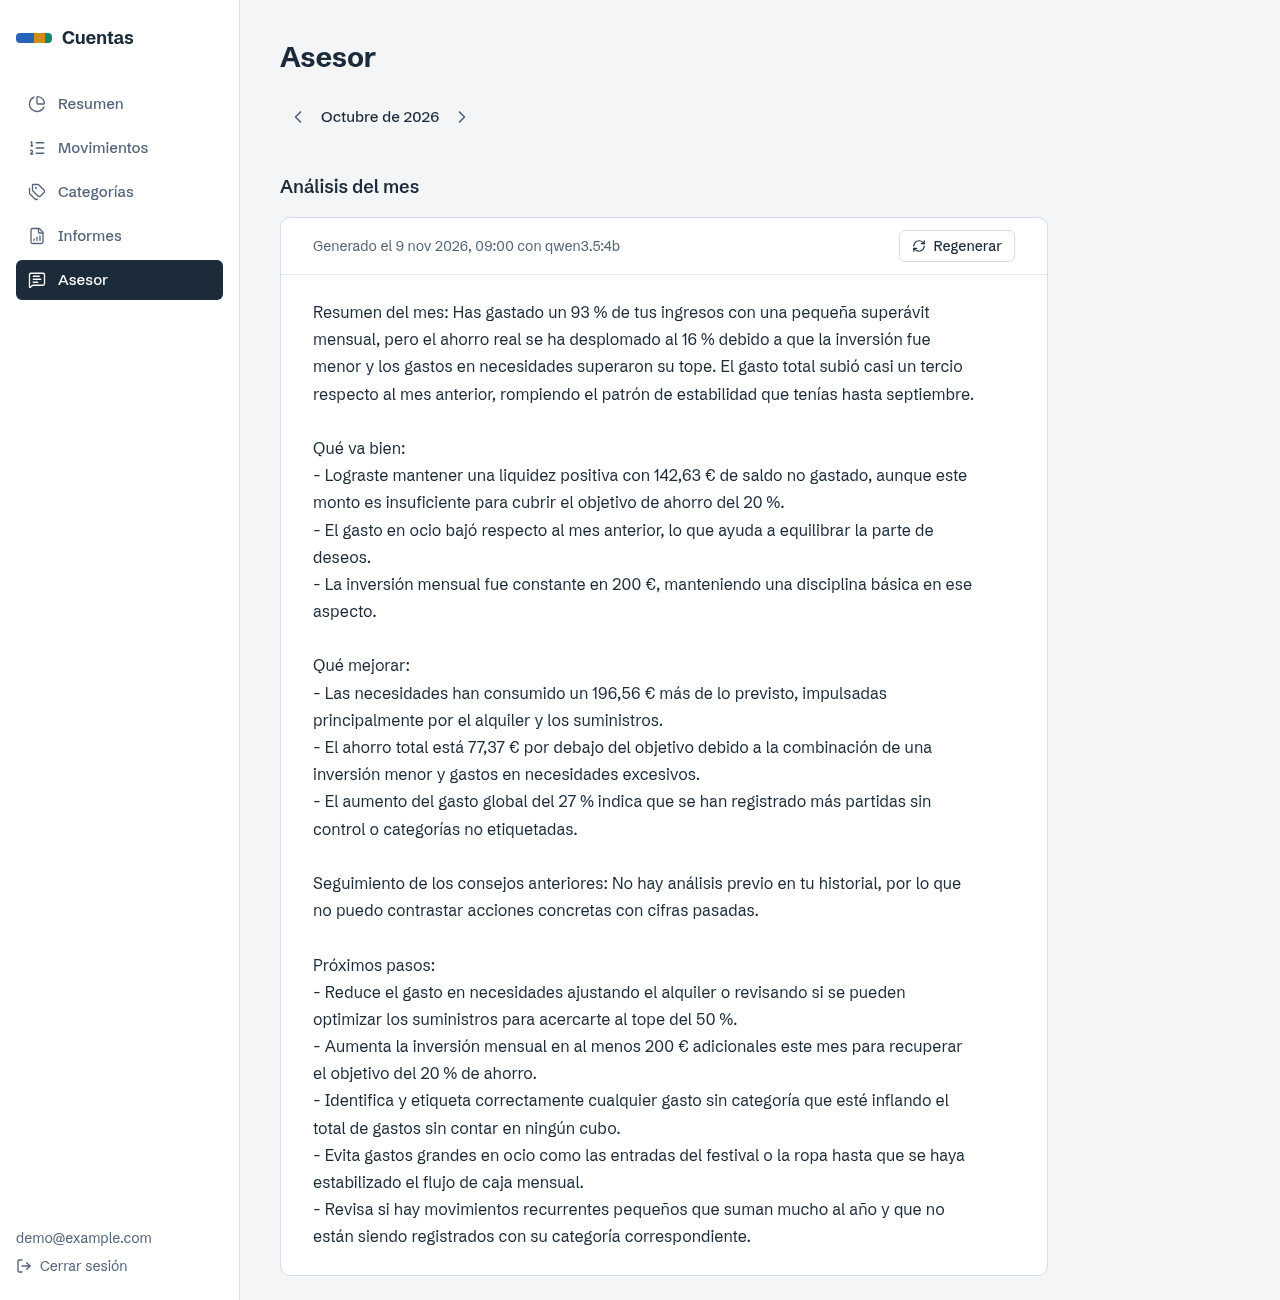
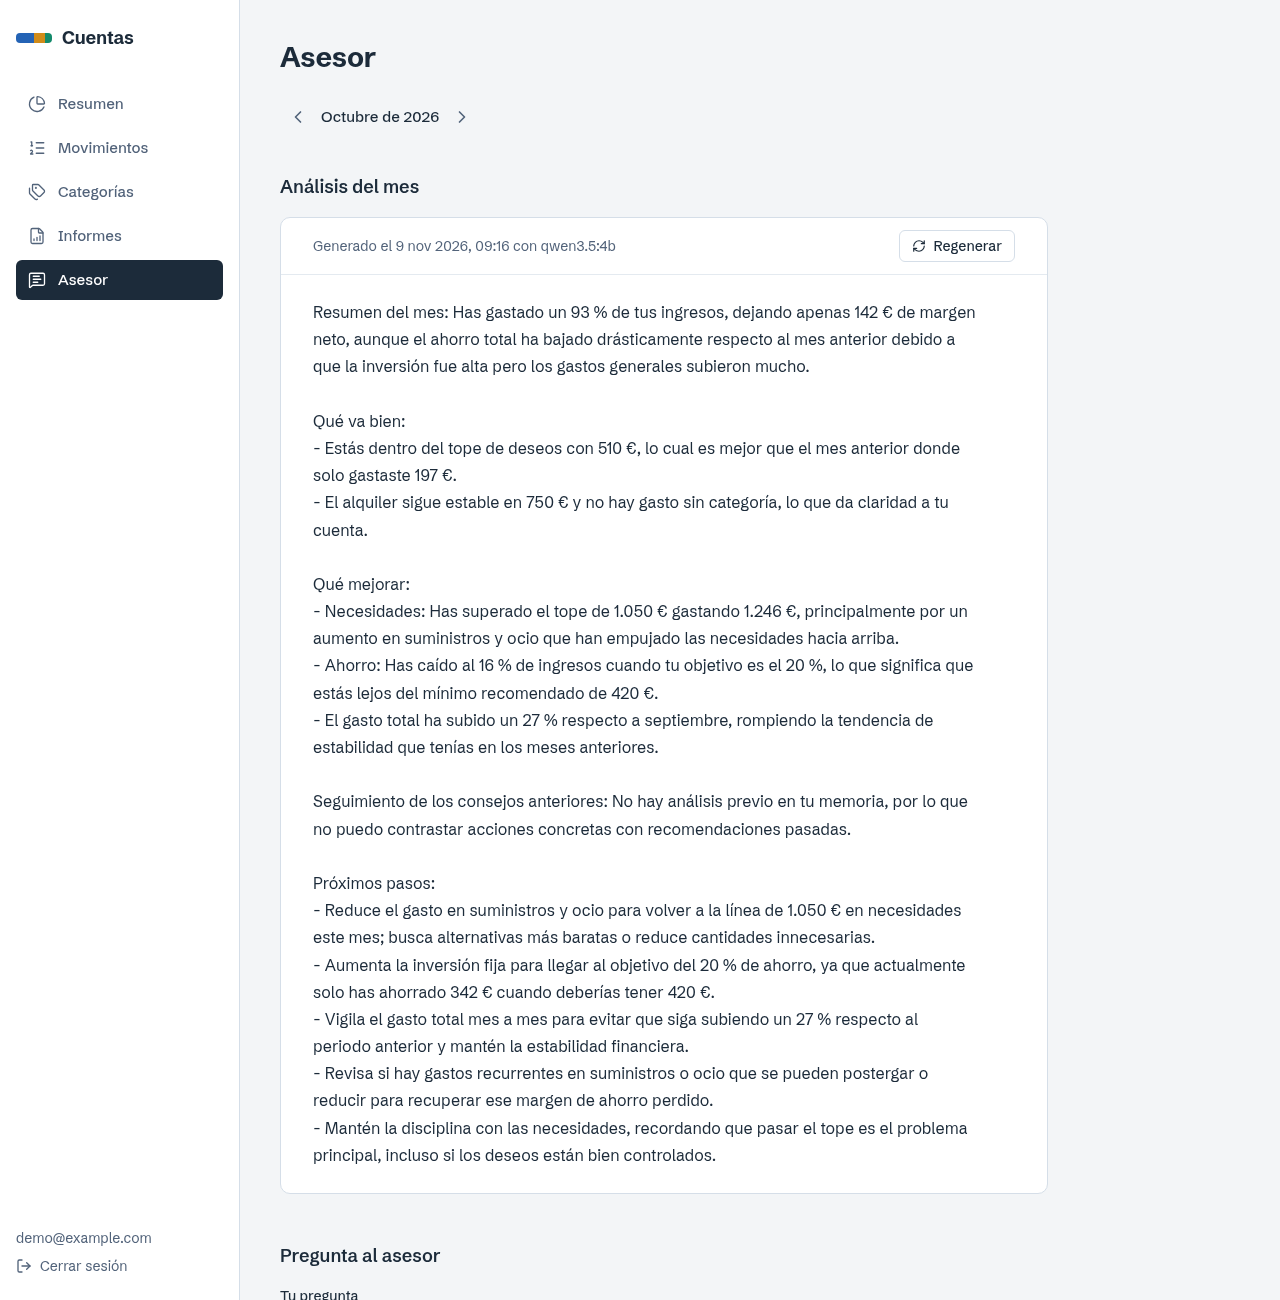
README: comparación del asesor, cifras de tests y captura del análisis con el prompt nuevo

Changed region(s): [[0.25, 0.2154, 0.75, 0.6462], [0.2188, 0.6769, 0.75, 1.0], [0.4062, 0.1846, 0.4688, 0.2154]]

diff --git a/README.md b/README.md
@@ -47,8 +47,8 @@ un LLM local analiza cada mes y responde preguntas sobre tus datos.
 |---|---|---|
 | ![Pantalla de acceso](docs/capturas/acceso.png) | ![Resumen en móvil](docs/capturas/movil-resumen.png) | ![Movimientos en móvil](docs/capturas/movil-movimientos.png) |
 
-<sub>El análisis del asesor es la salida real del modelo de 4B, sin retocar, y se ven sus límites: dice que la
-inversión bajó cuando fue la misma que el mes anterior.</sub>
+<sub>El análisis del asesor es la salida real del modelo de 4B, sin retocar, y se ven sus límites: atribuye a las
+necesidades una subida del ocio, que es un deseo, y presenta como mejora haber gastado más en deseos que el mes anterior.</sub>
 
 ## Cómo se calcula el 50/30/20
 
@@ -100,7 +100,9 @@ cómo se marca un cargo. La importación no depende de un formato concreto:
 ## Asesor con IA local
 
 **El código calcula y el modelo explica.** Rust obtiene las cifras exactas (resumen, informe, evolución)
-y se las pasa al modelo, al que el prompt prohíbe usar cifras que no estén en esos datos.
+y se las pasa al modelo, al que el prompt prohíbe usar cifras que no estén en esos datos. La comparación con el
+mes anterior también llega hecha: por cada cubo, la diferencia en euros y en puntos y si está dentro de su tope.
+El modelo de 4B fallaba al restar o mezclaba cifras de otros meses de su memoria.
 
 - **Memoria con RAG.** Cada análisis y cada conversación se guardan con su embedding en pgvector. Al
   analizar un mes, el prompt incluye el análisis del mes anterior y las memorias más parecidas, y el
@@ -208,9 +210,9 @@ ollama pull embeddinggemma:300m-qat-q8_0
 
 | Comando | Qué comprueba |
 |---|---|
-| `cd backend && cargo test` | 149 tests unitarios |
+| `cd backend && cargo test` | 150 tests unitarios |
 | `python3 scripts/e2e.py` | 170 comprobaciones de la API con el backend en marcha, con las cifras del 50/30/20, de los informes y de la importación calculadas a mano. Se niega a correr si la BD ya tiene un usuario |
-| `cd asesor && npm test && npm run check` | 57 tests y tipos. Los 3 de integración se saltan solos sin Postgres con pgvector y Ollama |
+| `cd asesor && npm test && npm run check` | 73 tests y tipos. Los 3 de integración se saltan solos sin Postgres con pgvector y Ollama |
 | `cd frontend && npx tsc -b && npx oxlint src` | Tipos y lint |
 
 ## Seguridad
